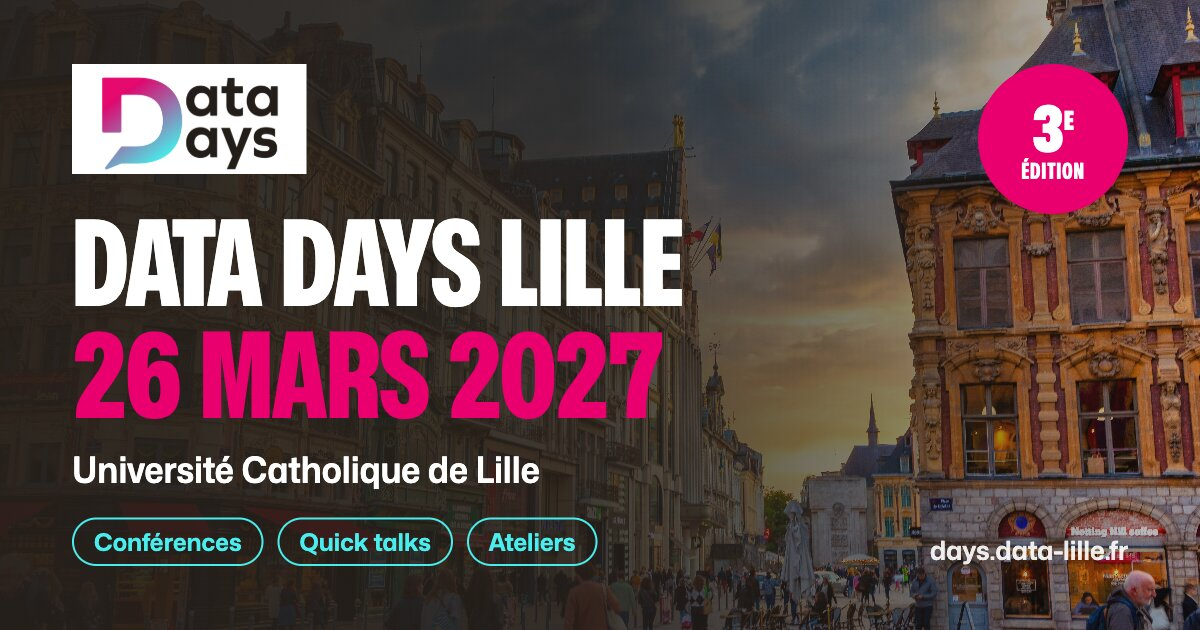
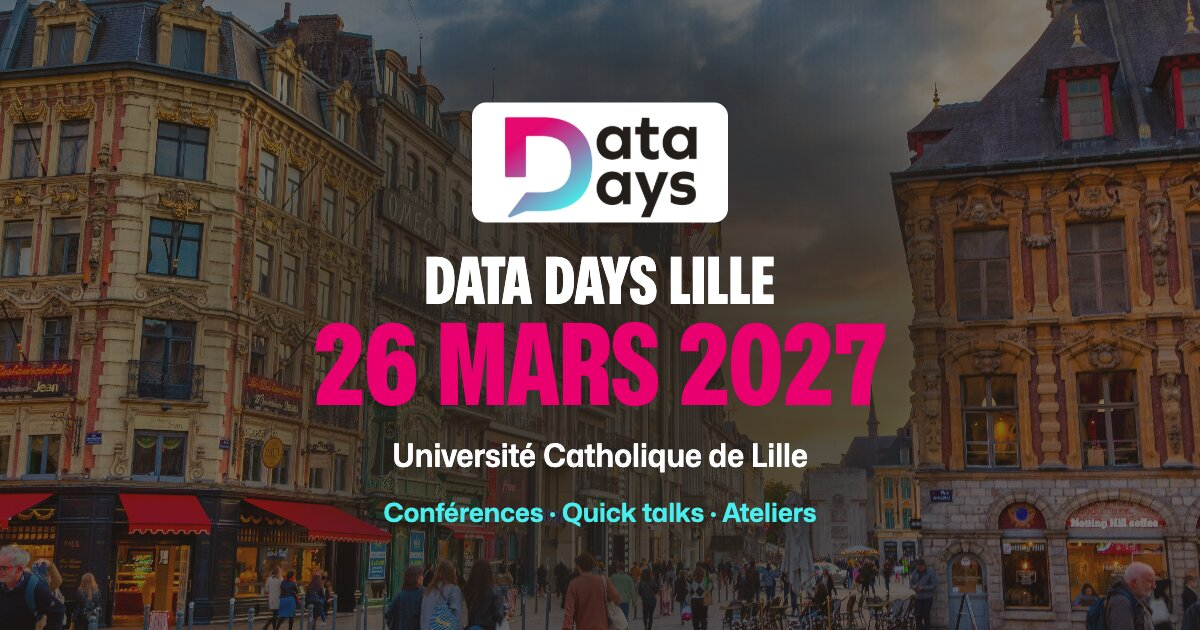
fix: image de partage centrée (recadrage WhatsApp) + suppression des tirets cadratins

diff --git a/templates/fr/infos.jinja2.html b/templates/fr/infos.jinja2.html
@@ -4,7 +4,7 @@
   <article class="infos-page">
     <h2>Informations pratiques</h2>
     <p style="text-align: center; font-size: 1.2em; margin-top: 0.5em;">
-      <strong>60 Boulevard Vauban, Lille</strong> — Accueil à partir de 8h15
+      <strong>60 Boulevard Vauban, Lille</strong>, accueil à partir de 8h15
     </p>
 
     <section class="info-hero">
@@ -17,12 +17,12 @@
         </iframe>
       </div>
       <div class="info-hero-photo">
-        <img src="{{ url_for('static', filename='images/entree-catho.jpg') }}" alt="Entrée de l'Université Catholique de Lille — 60 Boulevard Vauban">
+        <img src="{{ url_for('static', filename='images/entree-catho.jpg') }}" alt="Entrée de l'Université Catholique de Lille, 60 Boulevard Vauban">
       </div>
     </section>
 
     <section style="text-align: center; margin: 2em auto; max-width: 900px;">
-      <img src="{{ url_for('static', filename='images/plan-data-days.png') }}" alt="Plan du Data Days — Niveau 0 : salles de conférences (Amphi 1 et 2) — Niveau 1 : stands, café et déjeuner" style="width: 100%; border-radius: 8px;">
+      <img src="{{ url_for('static', filename='images/plan-data-days.png') }}" alt="Plan du Data Days. Niveau 0 : salles de conférences (Amphi 1 et 2). Niveau 1 : stands, café et déjeuner" style="width: 100%; border-radius: 8px;">
     </section>
 
     <div class="infos-grid">
@@ -30,10 +30,10 @@
       <section class="info-card">
         <h3>Horaires</h3>
         <ul>
-          <li><strong>8h15</strong> — Accueil des participants</li>
-          <li><strong>9h00</strong> — Début des conférences</li>
-          <li><strong>12h30</strong> — Déjeuner</li>
-          <li><strong>17h00</strong> — Fin de la journée</li>
+          <li><strong>8h15</strong> : Accueil des participants</li>
+          <li><strong>9h00</strong> : Début des conférences</li>
+          <li><strong>12h30</strong> : Déjeuner</li>
+          <li><strong>17h00</strong> : Fin de la journée</li>
         </ul>
       </section>
 
@@ -59,7 +59,7 @@
       <section class="info-card">
         <h3>Éco-responsabilité</h3>
         <p>
-          Des <strong>écocups</strong> sont fournis — ramenez le vôtre si possible ! Gardez-le toute la journée.
+          Des <strong>écocups</strong> sont fournis, ramenez le vôtre si possible ! Gardez-le toute la journée.
         </p>
         <p>
           Pareil pour les <strong>tours de cou</strong> (lanières de badge).

diff --git a/templates/fr/venue.jinja2.html b/templates/fr/venue.jinja2.html
@@ -24,7 +24,7 @@
 
       <h3>L'entrée</h3>
       <p>Entrez par le <strong>60 Boulevard Vauban</strong>. Un stand Data Days vous accueille dès l'entrée.</p>
-      <img src="{{ url_for('static', filename='images/entree-catho.jpg') }}" alt="Entrée de l'Université Catholique de Lille — 60 Boulevard Vauban" style="max-width: 600px; border-radius: 10px; margin-top: 1em;">
+      <img src="{{ url_for('static', filename='images/entree-catho.jpg') }}" alt="Entrée de l'Université Catholique de Lille, 60 Boulevard Vauban" style="max-width: 600px; border-radius: 10px; margin-top: 1em;">
 
     </section>
 

diff --git a/templates/fr/index.jinja2.html b/templates/fr/index.jinja2.html
@@ -22,7 +22,7 @@
       </p>
 
       <p>
-        <strong>Le call for papers et les inscriptions ouvriront prochainement</strong> — restez connectés !
+        <strong>Le call for papers et les inscriptions ouvriront prochainement</strong>. Restez connectés !
       </p>
 
       <ul>
